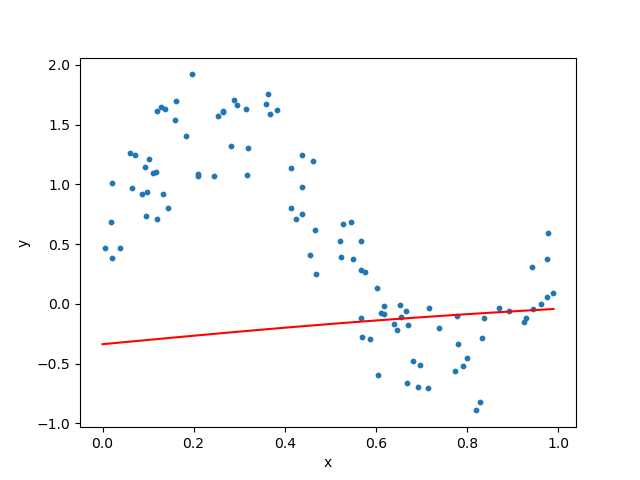
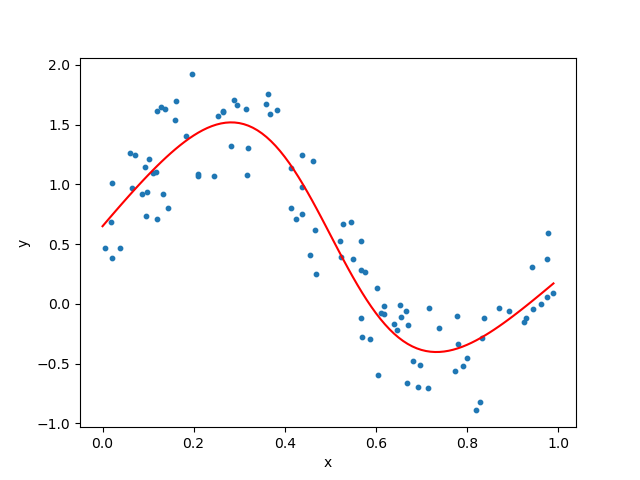
step45 fc

diff --git a/dezero/layers.py b/dezero/layers.py
@@ -31,13 +31,9 @@ class Layer:
             obj = self.__dict__[name]
 
             if isinstance(obj, Layer):  # 如果参数是Layer
-                yield from obj.params()  # 递归从obj里面取出来数据
-                # 使用yield的函数叫做生成器，
-                # yield from使用一个生成器创建另一个生成器
+                yield from obj.params()  # 递归从obj里面取出来数据  使用yield的函数叫做生成器，yield from使用一个生成器创建另一个生成器
             else:
-                obj
-            # yield self.__dict__[name]  # 将所有的参数存入当前实例的dict里面
-            # yield 用法同return，区别是：yield是暂停处理并返回值
+                yield obj
 
     def cleargrads(self):
         """

diff --git a/ch_04/step45-03.py b/ch_04/step45-03.py
@@ -25,33 +25,18 @@ iters = 10000
 
 model = M.TwoLayerNet(hidden_size, 1)
 
-l1 = L.Linear(10)
-l2 = L.Linear(1)
-
-
-def predict(x):
-    y = l1(x)
-    y = F.sigmoid(y)
-    y = l2(y)
-    return y
-
 
 for i in range(iters):
-    y_pred = predict(x)
+    y_pred = model(x)
     loss = F.mean_squared_error(y, y_pred)
 
     # 清空梯度
-    l1.cleargrads()
-    l2.cleargrads()
+    model.cleargrads()
     loss.backward()
 
     # 逐步修正参数
-    for l in [l1, l2]:
-        for p in l.params():
-            p.data -= lr * p.grad.data
-
-    # for p in model.params():
-    #     p.data -= lr * p.grad.data
+    for p in model.params():
+        p.data -= lr * p.grad.data
     if i % 1000 == 0:
         print(loss)
         # print(y_pred)
